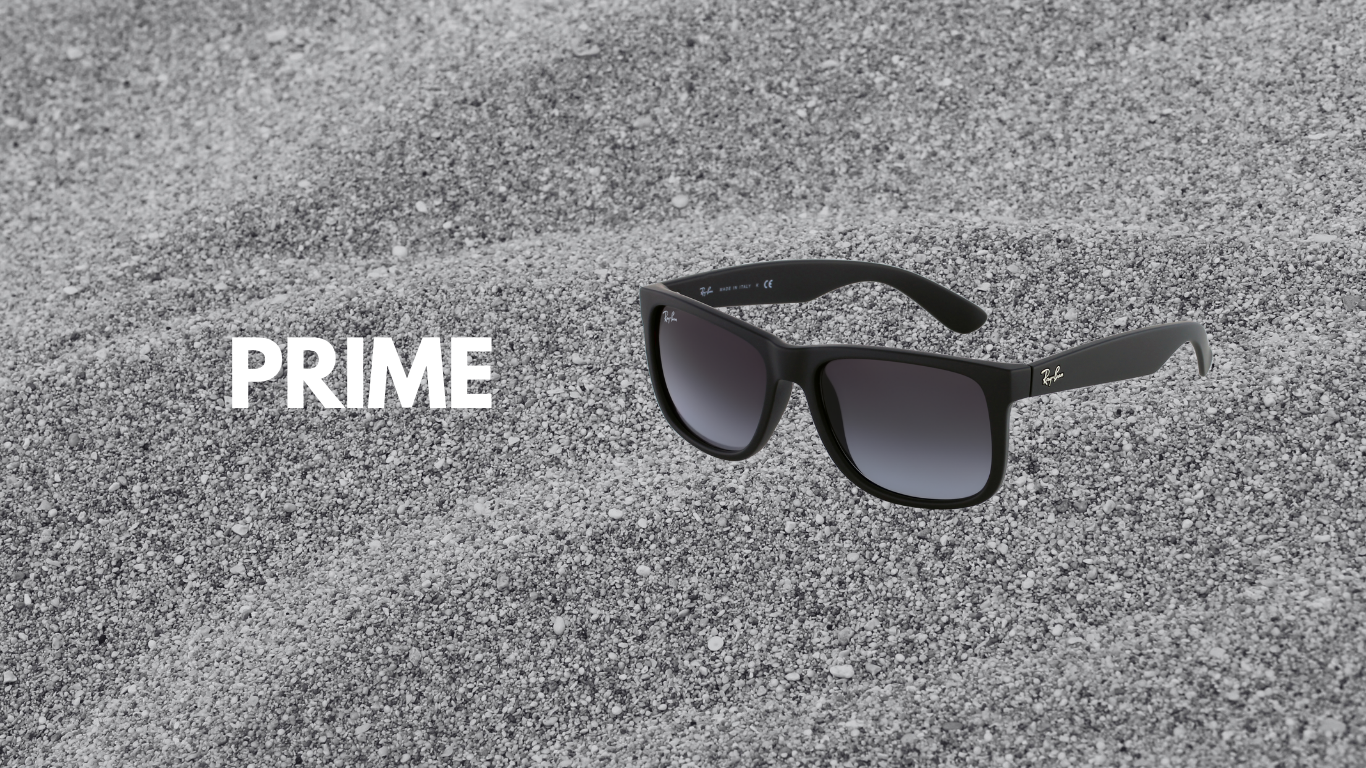
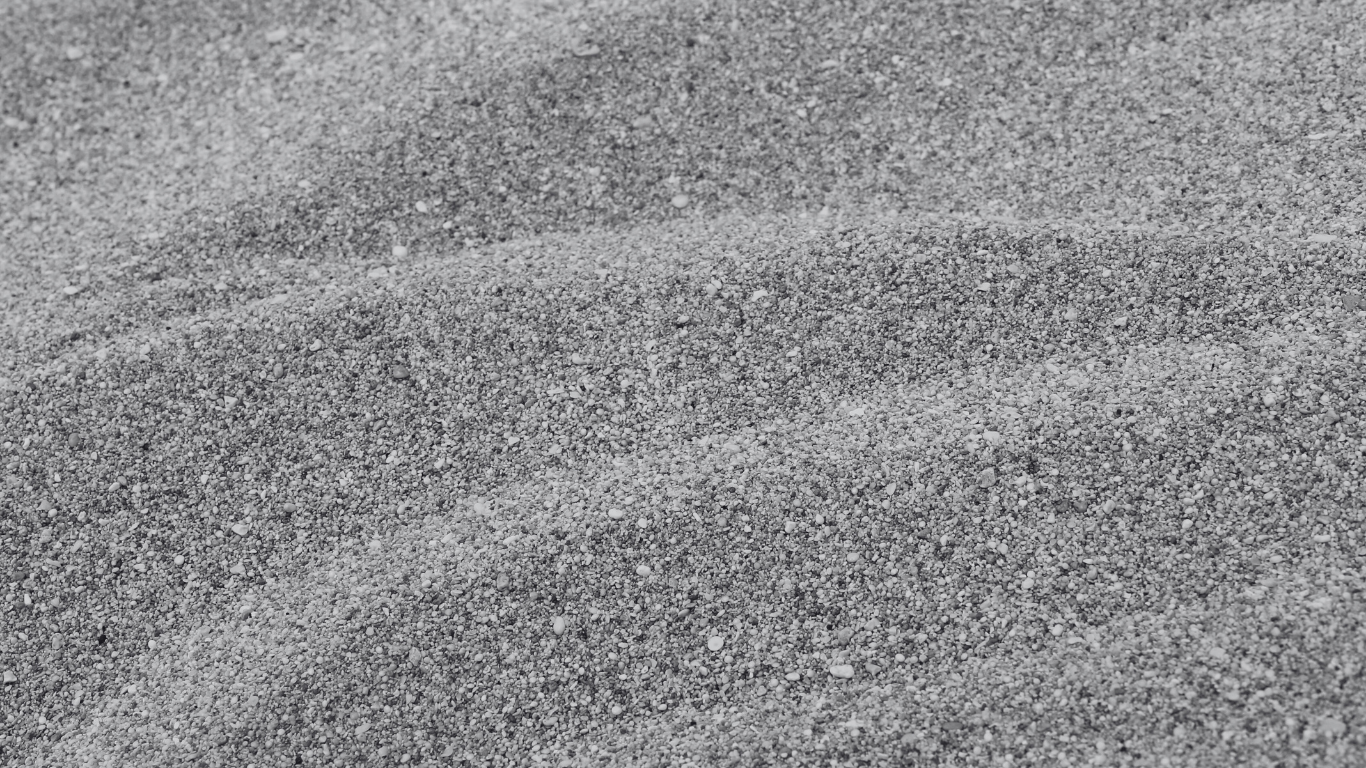
improvement from Home

Changed region(s): [[0.4612, 0.3125, 0.8917, 0.6875], [0.1537, 0.4375, 0.369, 0.5312]]

diff --git a/ecommer/src/Home.css b/ecommer/src/Home.css
@@ -1,19 +1,40 @@
 .home{
-    height: 100000px;
+    height: 520px;
+    margin: 0px 0px 0px 100px;
+    display: flex;
+    align-items: center;
+    justify-content: space-around;
 }
-img{
-    width: 100%;
+
+.home img{
+    width: 40em;
+    height: 20em;
+    filter: drop-shadow(30px 10px 30px #000000);
+    transition: 0.5s;
+}
+
+.home img:hover{
+    width: 42em;
+    height: 22em;
+}
+
+.home h1{
+    font-size: 100px;
+    color: white;
+    text-shadow: 10px 10px 30px #000000;
 }
 
 body{
     background-image: url(img/prime.png);
+    background-repeat: no-repeat;
 }
 
 @media 
   (-webkit-min-device-pixel-ratio: 2), 
-  (min-resolution: 192dpi) { 
+  (min-resolution: 100dpi) { 
   body {
-    background-image: url(img/PRIME-X.png);
+    background-image: url(img/BestGlasses.png);
+    background-repeat: no-repeat;
   }
 }
 

diff --git a/ecommer/src/App.css b/ecommer/src/App.css
@@ -43,6 +43,7 @@ a {
 
 .categoria {
   background-color: #F5F0F6;
+  padding: 5px;
   color: gray;
   padding: 10px;
   margin: 0;
@@ -70,12 +71,30 @@ a {
   color: #ffffff;
 }
 
+.logotipo{
+  padding: 10px;
+  border-radius: 10px;
+  transition: 0.5s;
+}
+
+.logotipo:hover{
+  background-color: rgba(80, 80, 80, 0.205);
+  color: #ffffff;
+}
+
 .ubicacion FaLocationDot {
   margin: 5px;
   font-size: 20px;
 }
 
+.ubicacion{
+  padding: 10px;
+  border-radius: 10px;
+  transition: 0.5s;
+}
+
 .ubicacion:hover {
+  background-color: rgba(80, 80, 80, 0.205);
   color: #ffffff;
 }
 
@@ -83,9 +102,13 @@ a {
   font-size: 25px;
   color: #F5F0F6;
   transition: 300ms;
+  padding: 10px;
+  border-radius: 10px;
+  transition: 0.5s;
 }
 
 .carrito:hover {
+  background-color: rgba(80, 80, 80, 0.205);
   color: #ffffff;
 }
 

diff --git a/ecommer/src/Home.js b/ecommer/src/Home.js
@@ -1,8 +1,10 @@
 import React from 'react';
-import background from './img/prime.png';
 import './Home.css';
+import lentes from './img/lentes.png';
 
 export function Home(){
     return <div className="home">
+        <h1>PRIME</h1>
+        <img src={lentes} alt='Glasses'></img>
     </div>
 }
